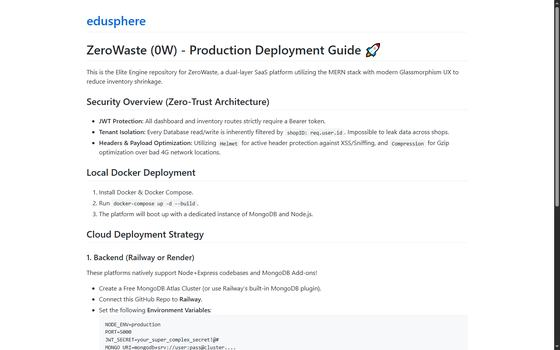
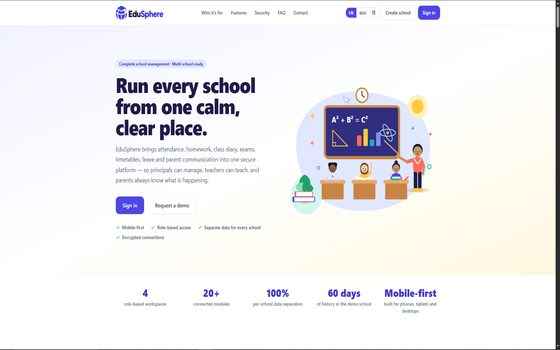
Work: 6 featured (hasan, Al Awaans, CoreUI promoted), 16-card grid with 3-shot galleries, CARZO + EduSphere re-added with new URLs and supplied screenshots, 6 projects removed

diff --git a/index.html b/index.html
@@ -251,7 +251,10 @@ html:not(.js) .w i{transform:none}
 .wg{display:grid;grid-template-columns:repeat(auto-fill,minmax(232px,1fr));gap:14px}
 .wg a{display:block;border:1px solid var(--ln);border-radius:12px;overflow:hidden;background:#141311;
   transition:transform .22s ease,border-color .22s ease}
-.wg a:hover{transform:translateY(-4px);border-color:#413a31}
+.wc .sv{position:relative}
+.wth{position:absolute;right:8px;bottom:8px;display:flex;gap:5px;z-index:2}
+.wth i{width:18px;height:4px;border-radius:2px;background:rgba(255,255,255,.45);cursor:pointer;transition:background .2s}
+.wth i.on{background:#fff}
 .wg img{display:block;width:100%;aspect-ratio:16/10;object-fit:cover;object-position:top center;background:#0b0a09}
 .wg span{display:block;padding:11px 13px 1px;font:600 .82rem Inter,sans-serif;color:var(--fg)}
 .wg small{display:-webkit-box;-webkit-line-clamp:2;-webkit-box-orient:vertical;overflow:hidden;
@@ -356,7 +359,14 @@ const PRICING=[ // template: replace prices + features whenever you like
 {n:'Premium',p:'₹39,999',d:'A custom, high-impact brand experience.',f:['Unlimited pages','Online store or custom tools','3D / advanced motion','Priority support','Custom timeline']}];
 const ADDONS=[['Logo & brand kit','₹2,500'],['Extra page','₹1,500'],['Google Business setup','₹1,200'],['Content writing','₹2,000']];
 const SV=[['Business Websites','A premium home for your shop, clinic, studio or brand.'],['Online Shops & Catalogs','Show your products and take orders straight on WhatsApp.'],['Landing Pages','One powerful page built to turn clicks into enquiries.'],['Redesign & Speed Fix','Old, slow site? I make it modern and lightning fast.'],['Custom Web Tools','Calculators, booking, dashboards and browser tools.'],['Launch & Handover','Domain, hosting setup and every file handed to you.']];
-const WK=[['Meridian Arch Studio','Architecture studio website','meridianarchstudio.com','#c8a97a','#1a1410',['React','Node.js'],'shots/meridian.jpg'],['Al Awaans (Leens)','Abu Dhabi tech store, online shop','leens.online','#2d4f55','#efeae0',['E-commerce','React'],'shots/leens.jpg'],['TISK School','Official school website','tiskems.edu.in','#b5523b','#fbf1e6',['Website','Responsive'],'shots/tisk.jpg'],['Voxel Sandbox','A playable voxel world in one 68 KB file, built from scratch with WebGL2','voxel-sandbox.html','#5c6b3d','#f1f0e0',['WebGL2','Game'],'shots/voxel.jpg']];
+const WK=[
+ ['Hasan — Portfolio','Personal portfolio and playground','hsf237.github.io/hasan','#1b1a17','#efeae0',['Portfolio','Personal'],'shots/hasan.jpg'],
+ ['Al Awaans (Leens)','Abu Dhabi tech store, online shop','leens.online','#2d4f55','#efeae0',['E-commerce','React'],'shots/leens.jpg'],
+ ['CoreUI Kit','Open-source React + Tailwind UI registry','core-ui-kit-v2-3.vercel.app','#cfd6dc','#12181d',['Open source','React'],'shots/w-coreui.jpg'],
+ ['TISK School','Official school website','tiskems.edu.in','#b5523b','#fbf1e6',['Website','Responsive'],'shots/tisk.jpg'],
+ ['Meridian Arch Studio','Architecture studio website','meridianarchstudio.com','#c8a97a','#1a1410',['React','Node.js'],'shots/meridian.jpg'],
+ ['Voxel Sandbox','A playable voxel world in one 68 KB file, built from scratch with WebGL2','voxel-sandbox.html','#5c6b3d','#f1f0e0',['WebGL2','Game'],'shots/voxel.jpg']
+];
 const FQ=[['How long does a website take?','Typically 3–5 days for a standard site. Bigger builds are quoted with a clear timeline.'],['How does payment work?','50% up front to start, 50% when I deliver. Simple.'],['Are there monthly fees?','No monthly fee to us. Your files are handed over and they are yours.'],['Will it work on mobile?','Yes. Every site is designed mobile-first, because most of your customers are on their phones.'],['Can customers order on WhatsApp?','Absolutely. I add WhatsApp buttons and order links wherever you want them.']];
 const WHY=[['📱','Customers search first','People look you up on their phone before they visit. A great site wins the sale.'],['🕒','Open 24/7','Your website shows products, prices and location while your shop is closed.'],['💬','Orders on WhatsApp','One tap and customers are chatting with you. No complicated checkout.']];
 const PRO=[['1','Chat on WhatsApp','Tell me about your business and goals.'],['2','Plan & price','Clear scope and a fixed price. 50% to start.'],['3','I build it','Design and code in 3–5 days with your feedback.'],['4','Launch & handover','50% on delivery. All files are yours.']];
@@ -376,48 +386,40 @@ $('svc').innerHTML=R(SV,(s,i)=>`<div class="row r"><span class="n">0${i+1}</span
 $('wk').innerHTML=R(WK,(s,i)=>`<div class="wc r${s[6]?' has':''}" style="background:${s[3]};color:${s[4]};--d:${i*.09}s">${s[6]?`<div class="sv"><img src="${s[6]}" alt="${s[0]} — homepage" loading="lazy" decoding="async"></div>`:''}<div class="tg">${R(s[5],t=>`<span>${t}</span>`)}</div><div><h3>${s[0]}</h3><p>${s[1]}</p>${s[2]?`<p style="margin-top:14px;opacity:1"><a href="${s[2].indexOf('.html')>0?s[2]:'https://'+s[2]}" target="_blank" rel="noopener" style="border-bottom:1px solid">${s[2].indexOf('.html')>0?'Play it now':s[2]} ↗</a></p>`:''}</div></div>`.replace('" style="background','" style="background'));
 /* every other shipped site, with a real screenshot of the live page */
 const ALL=[
- ['CARZO','https://hsf237.github.io/carzo/','site-2','#12110e','#efeae0',['Store','Racing'],'Dark, racing-themed store for scale models and RC cars'],
- ['Tech Orbit Hub','https://hsf237.github.io/tech-orbit/','w-tech-orbit','#171616','#efeae0',['Community','Hub'],'Free global community for developers and tech creators'],
- ['Muttam Souq','https://hsf237.github.io/muttamsouq.com/','w-muttamsouq','#e8e6dd','#1a1613',['Store','Cart'],'Online store with cart, checkout and delivery'],
- ['Ryze Store','https://ryzestore.vercel.app','w-ryzestore','#141211','#efeae0',['Marketplace','React'],'Marketplace frontend — React, Vite, Firebase'],
- ['Rendezvous','https://hsf237.github.io/rendezvous.com/','w-rendezvous','#d7dedd','#1a1613',['Club','Sport'],'Badminton academy website'],
- ['Güzel','https://hsf237.github.io/g-zel.com/','w-g-zel','#dfddd0','#1a1613',['Brand','Fashion'],'Men\'s clothing label — luxury, kept simple'],
- ['Ruchi Food','https://hsf237.github.io/ruchifood/','w-ruchifood','#121813','#efeae0',['Brand','Food'],'Kerala home-kitchen food brand'],
- ['Sol Harbor','https://hsf237.github.io/sol-harbor/','w-sol-harbor','#141215','#efeae0',['Game','three.js'],'Open-world driving game built with three.js'],
- ['Kerala Bus Times','https://kerala-bus-time-report.vercel.app','w-kerala-bus','#e2e0d5','#1a1613',['Tool','Data'],'Bus timings and stop arrivals across Kerala'],
- ['Pulse Grid','https://pulsegrid-jet.vercel.app','w-pulsegrid','#0e0f11','#efeae0',['Dashboard','IoT'],'IoT telemetry dashboard starter'],
- ['Eco Guard','https://hsf237.github.io/ecoguard/','w-ecoguard','#122a1e','#efeae0',['Campaign','Awareness'],'Plastic-pollution awareness site with an impact calculator'],
- ['AI Finder','https://aifinder-phi.vercel.app','w-aifinder','#0e0d0e','#efeae0',['Web app','AI'],'AI content-authenticity detection web app'],
- ['Science Quiz','https://hsf237.github.io/sciencequiz/','w-sciencequiz','#0d0d0d','#efeae0',['Game','Quiz'],'Space-themed science quiz game'],
- ['Play 11','https://hsf237.github.io/play11.com/','w-play11','#161516','#efeae0',['Brand','Jerseys'],'Jersey brand site — HTML, CSS, vanilla JS'],
- ['EduSphere','https://hsf237.github.io/edusphere/','w-edusphere','#f0ece4','#1a1613',['Platform','School'],'School platform — this URL is serving the deployment guide'],
- ['VEloop Exchange','https://veloop-exchange-center.vercel.app','w-veloop','#0f0e10','#efeae0',['Web app','Rewards'],'Rewards exchange centre redesign'],
- ['CoreUI Kit','https://core-ui-kit-v2-3.vercel.app','w-coreui','#0f0f0e','#efeae0',['Open source','React'],'Open-source React + Tailwind UI registry'],
- ['Elite Web Studio','https://hsf237.github.io/elitewebstudio.in/','w-elitewebstudio','#0e0e0e','#efeae0',['Studio','Cyberpunk'],'Cyberpunk-styled web studio site'],
- ['Al Awaans','https://al-awaans-site.vercel.app','w-al-awaans','#12110e','#efeae0',['Store','UAE'],'Mobile accessories shop, UAE'],
- ['NOV','https://hsf237.github.io/NOV/','w-nov','#0e0f11','#efeae0',['WebGL','3D'],'Cinematic 3D launch page for an AI robot'],
- ['Fahad Portfolio','https://hsf237.github.io/fahadsportfolio/','w-fahadsportfolio','#0d0d0e','#efeae0',['Portfolio'],'Personal portfolio'],
- ['Sinan Portfolio','https://hsf237.github.io/sinansportfolio/','w-sinansportfolio','#0e0d0d','#efeae0',['Portfolio'],'Personal portfolio'],
- ['Hasan Portfolio','https://hsf237.github.io/hasansportfolio.com/','w-hasansportfolio','#0e0d0c','#efeae0',['Portfolio'],'Portfolio — \'14 y/o creative dev\'']
+ ['CARZO','https://carzocrs.vercel.app',['w-carzo'],'#120e0e','#efeae0',['Store','Racing'],'Scale models and RC cars — dark, racing-themed store, Next.js 16 + Tailwind 4'],
+ ['EduSphere','https://eduspere-beta.vercel.app',['w-edusphere'],'#efebe3','#1a1613',['Platform','School'],'School management platform — attendance, homework, exams and parent updates'],
+ ['Tech Orbit Hub','https://hsf237.github.io/tech-orbit/',['w-tech-orbit'],'#171616','#efeae0',['Community','Hub'],'Free global community for developers and tech creators'],
+ ['Muttam Souq','https://hsf237.github.io/muttamsouq.com/',['muttamsouq-0','muttamsouq-1','muttamsouq-2'],'#e8e6dd','#1a1613',['Store','Cart'],'Online store with cart, checkout and delivery'],
+ ['Ryze Store','https://ryzestore.vercel.app',['ryzestore-0','ryzestore-1','ryzestore-2'],'#131210','#efeae0',['Marketplace','React'],'Marketplace frontend — React, Vite, Firebase'],
+ ['Rendezvous','https://hsf237.github.io/rendezvous.com/',['rendezvous-0','rendezvous-1','rendezvous-2'],'#d7dedd','#1a1613',['Club','Sport'],'Badminton academy website'],
+ ['Güzel','https://hsf237.github.io/g-zel.com/',['g-zel-0','g-zel-1','g-zel-2'],'#dfddd0','#1a1613',['Brand','Fashion'],'Men\'s clothing label — luxury, kept simple'],
+ ['Ruchi Food','https://hsf237.github.io/ruchifood/',['ruchifood-0','ruchifood-1','ruchifood-2'],'#121813','#efeae0',['Brand','Food'],'Kerala home-kitchen food brand'],
+ ['Sol Harbor','https://hsf237.github.io/sol-harbor/',['sol-harbor-0','sol-harbor-1','sol-harbor-2'],'#110e11','#efeae0',['Game','three.js'],'Open-world driving game built with three.js'],
+ ['Kerala Bus Times','https://kerala-bus-time-report.vercel.app',['kerala-bus-0','kerala-bus-1','kerala-bus-2'],'#e2e0d5','#1a1613',['Tool','Data'],'Bus timings and stop arrivals across Kerala'],
+ ['Pulse Grid','https://pulsegrid-jet.vercel.app',['pulsegrid-0','pulsegrid-1','pulsegrid-2'],'#0e0f11','#efeae0',['Dashboard','IoT'],'IoT telemetry dashboard starter'],
+ ['AI Finder','https://aifinder-phi.vercel.app',['aifinder-0','aifinder-1','aifinder-2'],'#0e0d0e','#efeae0',['Web app','AI'],'AI content-authenticity detection web app'],
+ ['VEloop Exchange','https://veloop-exchange-center.vercel.app',['veloop-0','veloop-1','veloop-2'],'#0f0e10','#efeae0',['Web app','Rewards'],'Rewards exchange centre redesign'],
+ ['Elite Web Studio','https://hsf237.github.io/elitewebstudio.in/',['elitewebstudio-0','elitewebstudio-1','elitewebstudio-2'],'#0e0e0e','#efeae0',['Studio','Cyberpunk'],'Cyberpunk-styled web studio site'],
+ ['Fahad Portfolio','https://hsf237.github.io/fahadsportfolio/',['fahadsportfolio-0','fahadsportfolio-1','fahadsportfolio-2'],'#0d0d0e','#efeae0',['Portfolio'],'Personal portfolio'],
+ ['Sinan Portfolio','https://hsf237.github.io/sinansportfolio/',['sinansportfolio-0','sinansportfolio-1','sinansportfolio-2'],'#0e0d0d','#efeae0',['Portfolio'],'Personal portfolio']
 ];
-$('wg').innerHTML=R(ALL,(a,i)=>
-  '<div class="wc r has" style="background:'+a[3]+';color:'+a[4]+';--d:'+((i%6)*0.05)+'s">'+
-  '<div class="sv"><img src="shots/'+a[2]+'.jpg" alt="'+a[0]+' website" loading="lazy" decoding="async"></div>'+
-  '<div class="tg">'+R(a[5],t=>'<span>'+t+'</span>')+'</div>'+
-  '<div><h3>'+a[0]+'</h3><p>'+a[6]+'</p>'+
-  '<p style="margin-top:14px;opacity:1"><a href="'+a[1]+'" target="_blank" rel="noopener" style="border-bottom:1px solid">'+
-  a[1].replace(/^https?:\/\//,'').replace(/\/$/,'')+' →</a></p></div></div>');
-$('prc').innerHTML=R(PRICING,(s,i)=>`<div class="pc r ${s.pop?'pop':''}" ${D(i)}>${s.pop?'<span class="bd">MOST POPULAR</span>':''}<h3>${s.n}</h3><p>${s.d}</p><div class="pr">${s.p}<small> / project</small></div><ul>${R(s.f,f=>`<li>${f}</li>`)}</ul><a class="btn mag" href="${wa('Hi RYZE STUDIOS! I’m interested in the '+s.n+' plan.')}" target="_blank" rel="noopener">Choose ${s.n}</a></div>`);
-$('ado').innerHTML=R(ADDONS,a=>`<div class="ad r"><b>${a[0]}</b><span>${a[1]}</span></div>`);
-$('fq').innerHTML=R(FQ,q=>`<div class="fq r"><h3>${q[0]}</h3><p>${q[1]}</p></div>`);
-$('val').innerHTML=R([['⚡','Speed first','Hand-coded sites that load instantly on any phone.'],['🎨','Craft over templates','Every layout is designed for your business, never copy-pasted.'],['🔑','You own it','No lock-in. Every file is handed over to you.']],(s,i)=>`<div class="col r" ${D(i)}><div class="ic">${s[0]}</div><h3>${s[1]}</h3><p>${s[2]}</p></div>`);
-$('also').innerHTML='<p class="eb r" style="margin:44px 0 18px">Also built</p>'+R(ALSO,a=>`<div class="ad r"><b>${a[0]}</b><span>${a[1]}</span></div>`);
-$('tk').innerHTML=R(['HTML / CSS / JS','React','Node.js','Three.js','GSAP','Firebase','WebGL2'],t=>`<span class="chp" style="cursor:default">${t}</span>`);
-document.querySelectorAll('.fq').forEach(f=>f.onclick=()=>f.classList.toggle('on'));
-let pick=NEED[0];$('ch').innerHTML=R(NEED,(n,i)=>`<button class="chp ${i?'':'on'}">${n}</button>`);
-$('ch').onclick=e=>{if(e.target.tagName!=='BUTTON')return;pick=e.target.textContent;[...$('ch').children].forEach(b=>b.classList.toggle('on',b===e.target))};
-$('sw').onclick=()=>open(wa(`Hi RYZE STUDIOS! I’m ${$('nm').value||'a business owner'} and I need: ${pick}.`),'_blank');
-document.querySelectorAll('.sp').forEach(h=>{let k=0;h.innerHTML=h.dataset.t.split(' ').map(w=>{const g=w[0]==='*';return `<span class="w${g?' it':''}"><i style="--k:${k++}">${g?w.slice(1):w}</i></span>`}).join('')});
+$('wg').innerHTML=R(ALL,(a,i)=>{
+  const imgs=a[2], first=imgs[0], base=first.replace(/-\d+$/,'');
+  return '<div class="wc r has" style="background:'+a[3]+';color:'+a[4]+';--d:'+((i%6)*0.05)+'s">'+
+    '<div class="sv"><img data-base="'+base+'" src="shots/'+first+'.jpg" alt="'+a[0]+' website" loading="lazy" decoding="async">'+
+    (imgs.length>1?'<div class="wth">'+R(imgs,(x,k)=>'<i data-k="'+k+'" class="'+(k?'':'on')+'"></i>')+'</div>':'')+
+    '</div>'+
+    '<div class="tg">'+R(a[5],t=>'<span>'+t+'</span>')+'</div>'+
+    '<div><h3>'+a[0]+'</h3><p>'+a[6]+'</p>'+
+    '<p style="margin-top:14px;opacity:1"><a href="'+a[1]+'" target="_blank" rel="noopener" style="border-bottom:1px solid">'+
+    a[1].replace(/^https?:\/\//,'').replace(/\/$/,'')+' →</a></p></div></div>';
+});
+document.addEventListener('click',e=>{
+  const t=e.target.closest('.wth i'); if(!t)return;
+  const card=t.closest('.wc'), img=card.querySelector('.sv img');
+  img.src='shots/'+img.dataset.base+'-'+t.dataset.k+'.jpg';
+  card.querySelectorAll('.wth i').forEach(x=>x.classList.toggle('on',x===t));
+});
 function tick(el,n,s){const t0=performance.now();(function f(t){const p=Math.min(1,(t-t0)/1400);el.textContent=Math.round(n*(1-Math.pow(1-p,4)))+s;if(p<1)requestAnimationFrame(f)})(t0)}
 const io=new IntersectionObserver(es=>es.forEach(e=>{if(e.isIntersecting){e.target.classList.add('on');io.unobserve(e.target);const c=e.target.querySelector('[data-n]');if(c)tick(c,+c.dataset.n,c.dataset.s)}}),{threshold:.15});
 const arm=s=>s.querySelectorAll('.r,.sp').forEach(e=>{e.classList.remove('on');io.unobserve(e);io.observe(e)});
